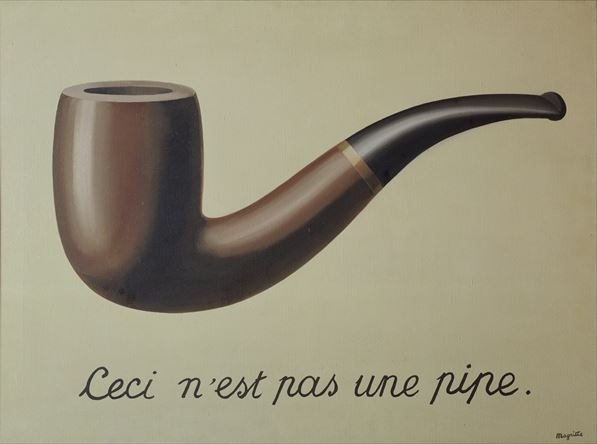
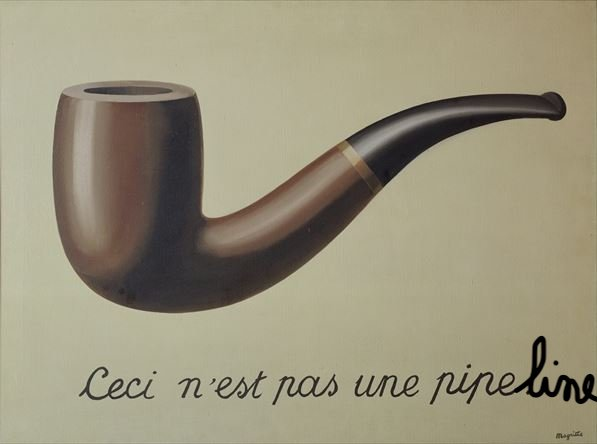
feat(wip): two parts to go

Changed region(s): [[0.8442, 0.7613, 1.0, 0.9077]]

diff --git a/content/post/20210301-datamesh.md b/content/post/20210301-datamesh.md
@@ -13,7 +13,7 @@ Le but de cet article est de présenter les fondements du datamesh et de poser q
 
 Dans un premier temps nous poserons un ensemble d'éléments structurants autour de la donnée. Ensuite nous poserons la définition du datamesh et des pilliers qui le compose. Enfin nous appliquerons ce principe sur un exemple d'architecture. La partie organisationnelle sera étudiée dans un prochain article.
 
-{{< figure src="/assets/magritte.jpg" caption="Disclaimer: Cet article n'est pas un 'how-to implement data-mesh'" attr="" attrlink="" >}}
+{{< figure src="/assets/magritte.jpg" caption="Disclaimer: Cet article n'est pas un article sur les 'pipe-lines de données'" attr="" attrlink="" >}}
 
 ## La donnée, cette élément ubiquite des SI modernes.
 
@@ -102,9 +102,45 @@ Au vu de cette architecture, nous pouvons faire les constats suivants:
 Le domaine a pour but de fédérer la signification des différents éléments tels que:
 
 - la signification des données dans le contexte du domaine
-- la signification des informations en regard du context métier. 
+- la signification des informations en regard du context métier.
 
 _Remarque_ comme dans toute architecture distribuée (tels que les architectures à base de micro-services), un élément clé de réussite est d'assurer l'autonomie des noeuds et de maitriser le couplage entre les éléments. Par conséquent, il est souhaitable de disposer d'informations auto-suffisantes au sein d'un domaine. Ceci peut passer par une duplication ou une dénormalisation des informations entre les noeuds.
 
 ## La donnée en tant que produit
 
+Le domaine de donnée a permis de délimiter les frontières dans lequelles la donnée a un sens, une valeur et une qualité précise.
+Voyons à présent comment représenter la donnée en tant que produit dans ce contexte.
+
+Traiter la donnée en tant que produit va permettre d'appliquer les principes du "product thinking" à notre contexte. Le but est de permettre aux consommateurs d'informations de pouvoir découvrir, comprendre et utiliser des données hautement qualitatives.
+
+Pour Marty Cagan (cf [Product Is hard - video](https://www.youtube.com/watch?v=gCYFmrvPI8Q) ou [Inspired - livre](https://svpg.com/inspired-how-to-create-products-customers-love/)), un bon produit doit:
+
+- (ap)porter de la valeur - les clients doivent choisir le produit pour la valeur qu'il apporte
+- utilisable - son utilisation doit être evidente
+- réalisable - en utilisant les compétences et la technologie a disposition
+
+Ceci amène les le contrat technologiqe auxquelle devra répondre un data-products:
+
+- être partagés et découvrables
+- être auto-portants
+- être utilisables
+- être inter-opérables (gouverné par des standards d'échange)
+- être sécurisés (gouvernés et contrôlés par une instances vérifiable et globale)
+- proposer un contrat de confiance
+
+> "Trust: a confident relationship to the unknown"- Rachel Botsman
+
+Afin de permettre la mise en place de ces différents data-products, il est donc important de disposer d'outils de validation et d'échange globaux et standardisés.
+Ainsi, par exemple, un système à base d'ontology permettra de définir les contours et interactions des différents data-products, les rendant auto-portant et découvrable dans l'écosystème.
+
+Le but est de rentrer dans un cycle d'intelligence continue telle que décrite sur le site de [par Ken Collier, Mark Brand et Pramod N](http://thoughtworks.com/insights/articles/intelligent-enterprise-series-models-enterprise-intelligence)
+
+![](https://dynamic.thoughtworks.com/landing_pages/inline_image_desktop-dde6dbc2c11220250eccb37cfb315115.png)
+
+## Une gouvernance de donnée fédérée
+
+## Un plateforme self-service
+
+## Conclusion
+
+{{< figure src="/assets/maillage-octo.png" caption="" attr="" attrlink="" >}}
